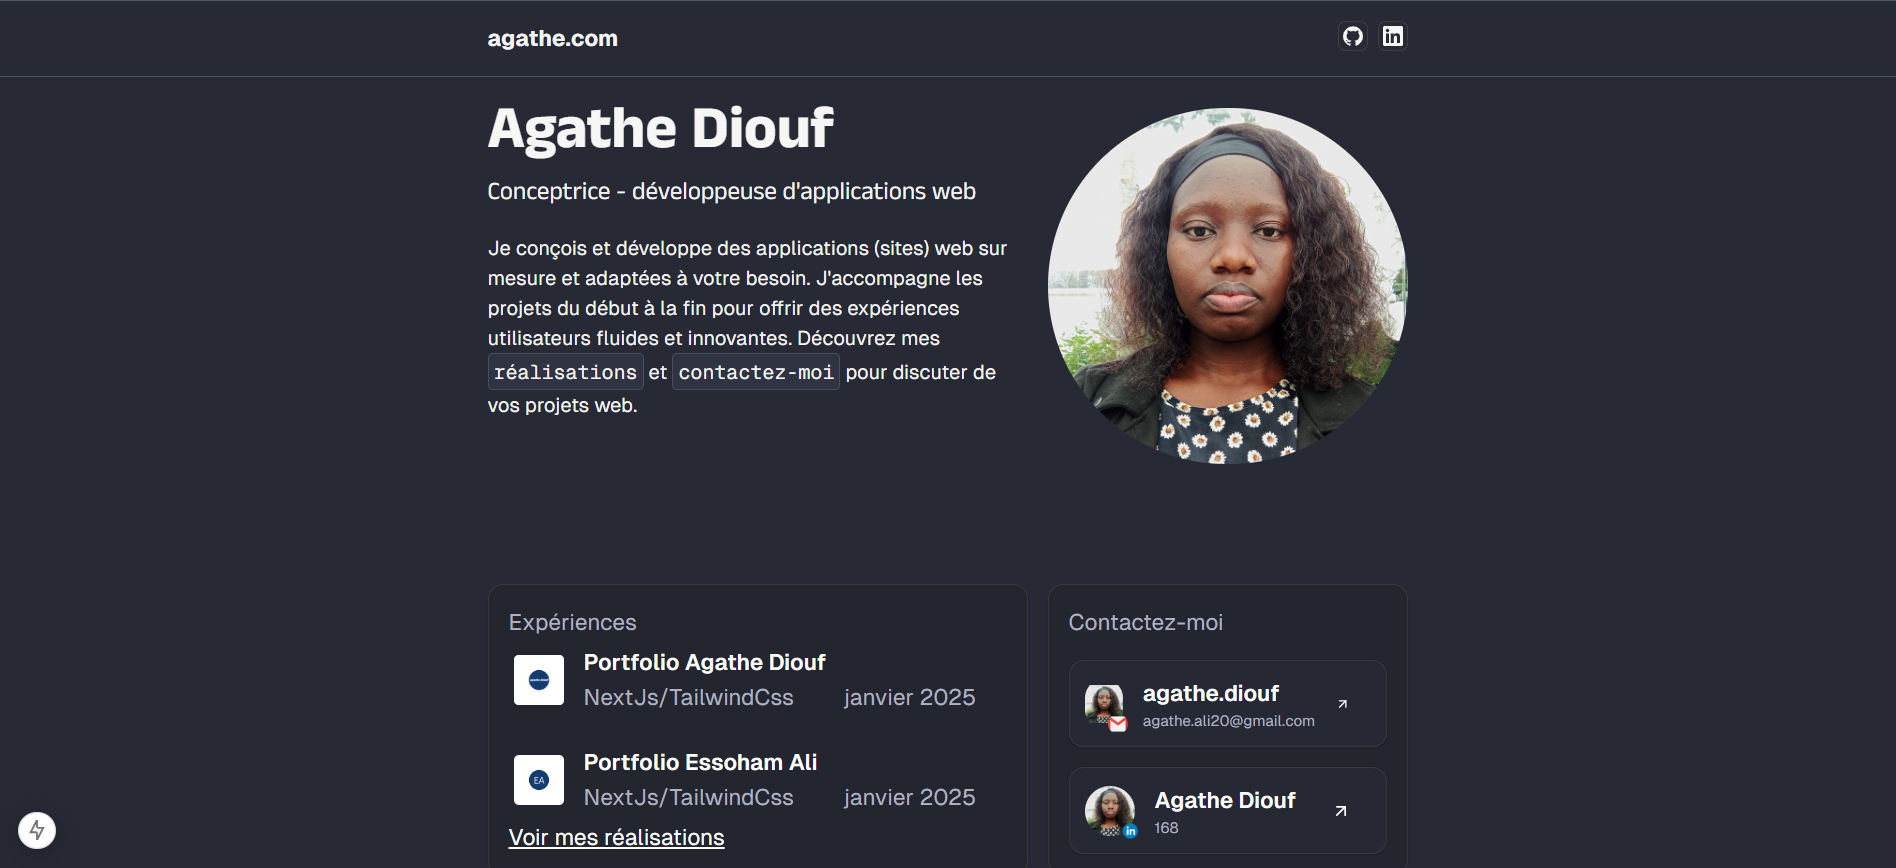
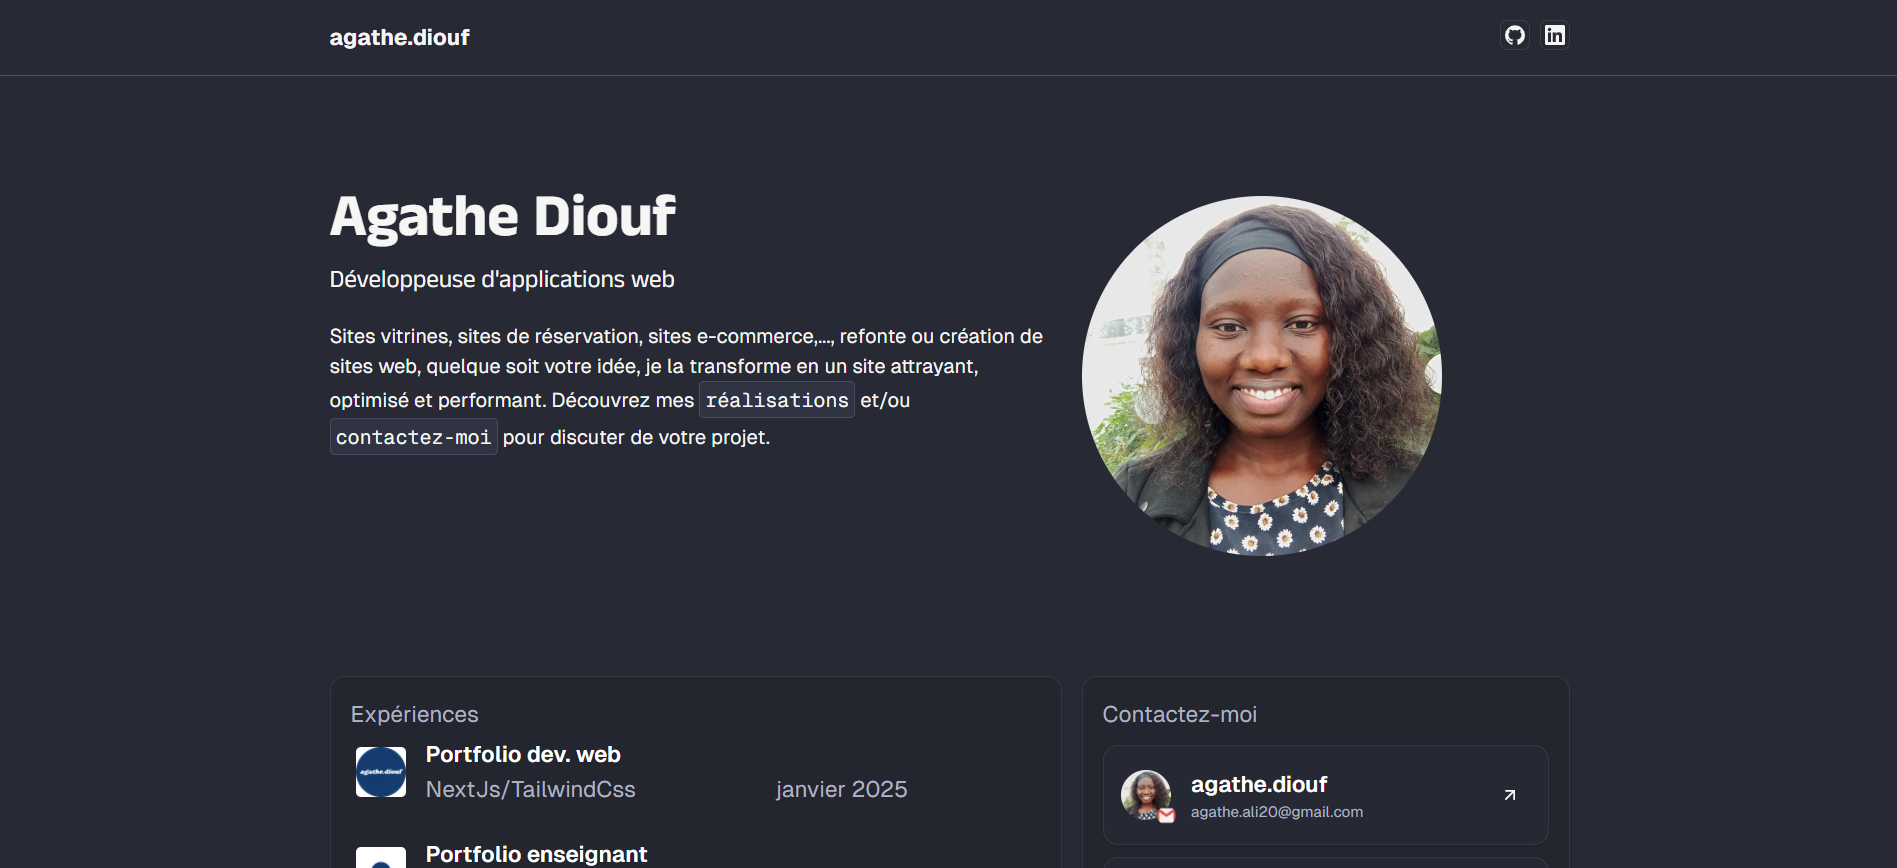
SEO

diff --git a/app/layout.tsx b/app/layout.tsx
@@ -42,12 +42,12 @@ export const metadata: CustomMetadata = {
   title: "Agathe DIOUF . Développeuse d'applications web",
   description: "Sites vitrines, sites de réservation, sites e-commerce,..., refonte ou création de sites web, quelque soit votre idée, je la transforme en un site attrayant, optimisé et performant.",
   icons:"/favicon.ico",
-  keywords: "Agathe Diouf, freelance développeur web, développeur wordpress, développeur wix, NextJs",
+  keywords: "Agathe Diouf, Développeur web freelance Angers, Développeur Wordpress Angers, Développeur Wix Angers, Développeur NextJs Angers",
   robots: "index, follow",
 
   openGraph: {
-    title: "Agathe DIOUF . Développeuse d'applications web",
-    description: "Refonte ou création de sites web, quelque soit votre idée, je la transforme en un site attrayant, optimisé et performant.",
+    title: "Agathe DIOUF . Freelance Développeuse web Angers",
+    description: "Refonte ou création de sites web, quelque soit votre idée, je la transforme en un site attrayant, optimisé et performant. Je suis Agathe DIOUF, Freelance Développeuse web à Angers",
     url: "https://agathe-portfolio-h9cryey64-gnilane95s-projects.vercel.app/",
     siteName: "Agathe DIOUF",
     images: [

diff --git a/app/_components/Hero.tsx b/app/_components/Hero.tsx
@@ -8,7 +8,7 @@ export const Hero = () => {
         <div className="flex-[3] flex flex-col gap-2">
             <h2 className="font-caption text-5xl text-primary font-bold">Agathe Diouf</h2>
             <h3 className="font-caption text-xl">
-                Développeuse d&apos;applications web
+                Freelance développeuse web à Angers
             </h3>
             <p className="text-base mt-2">
                 
